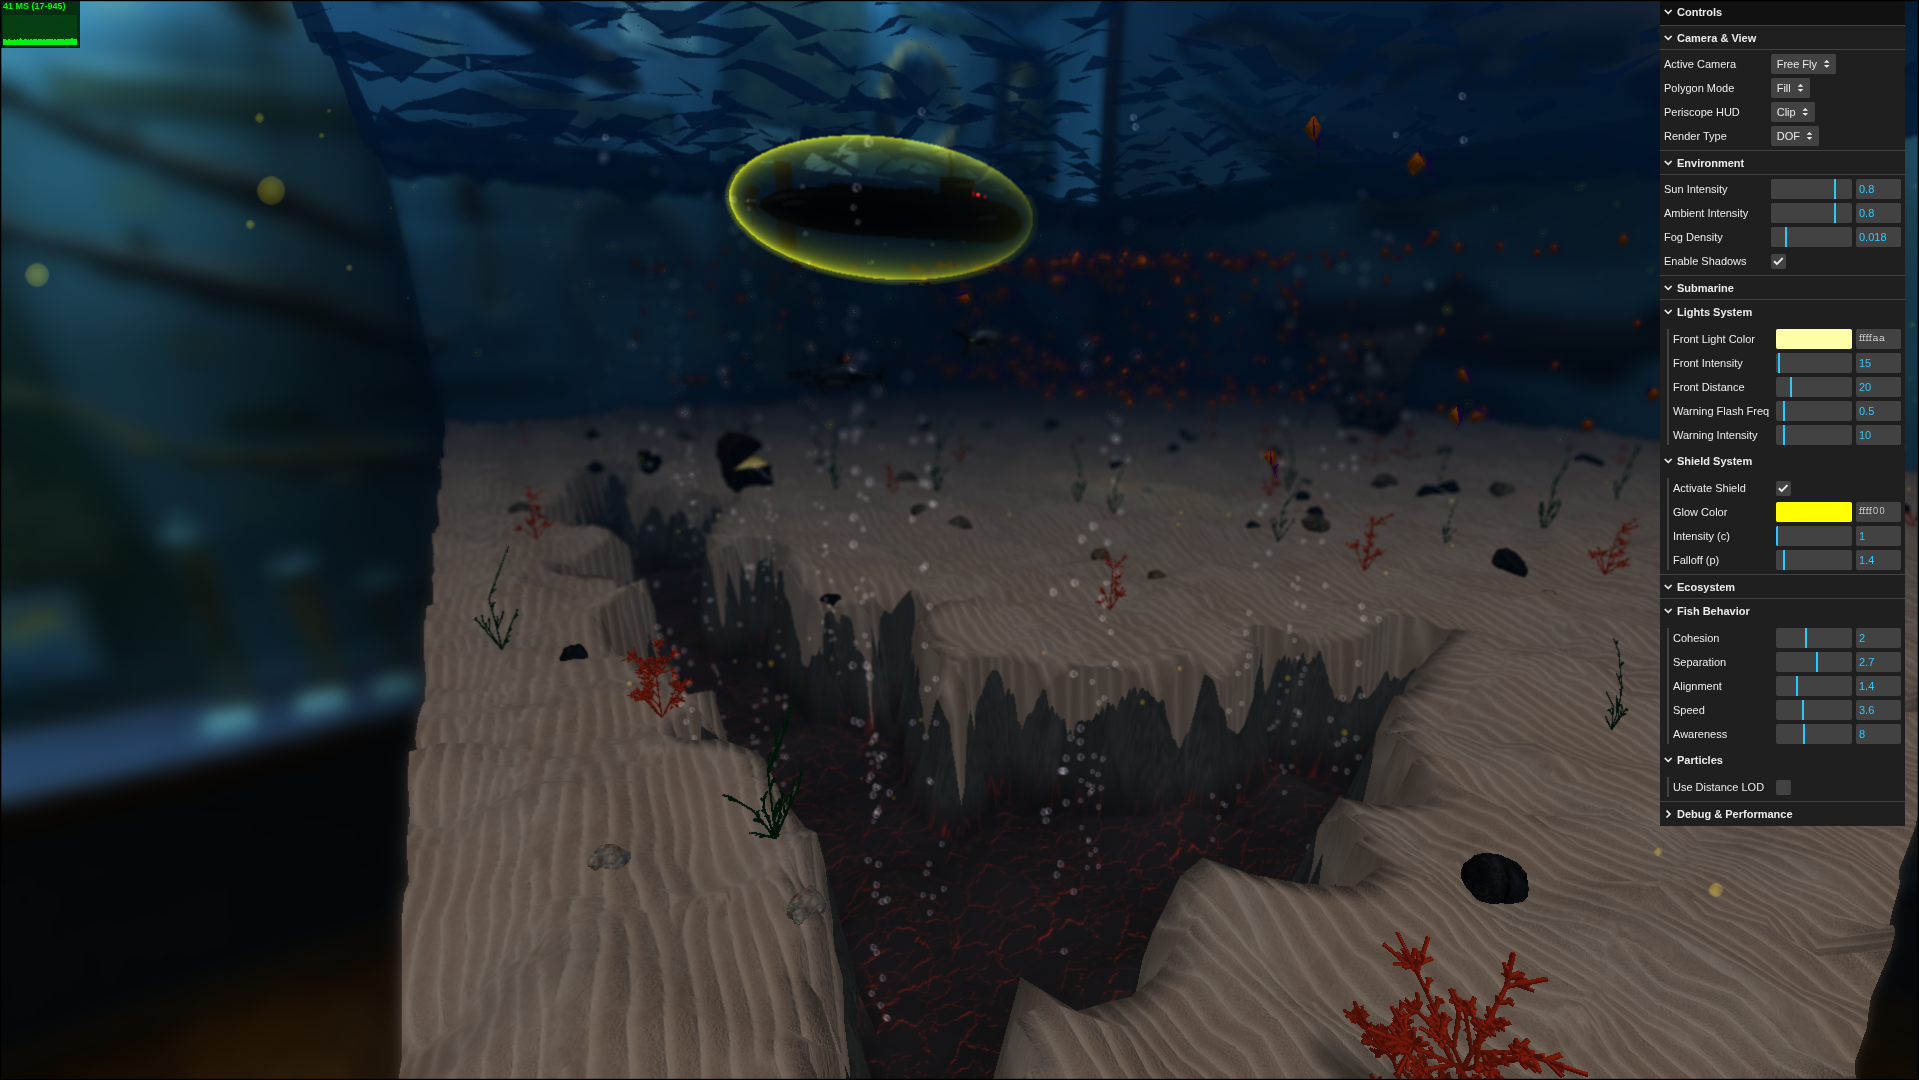
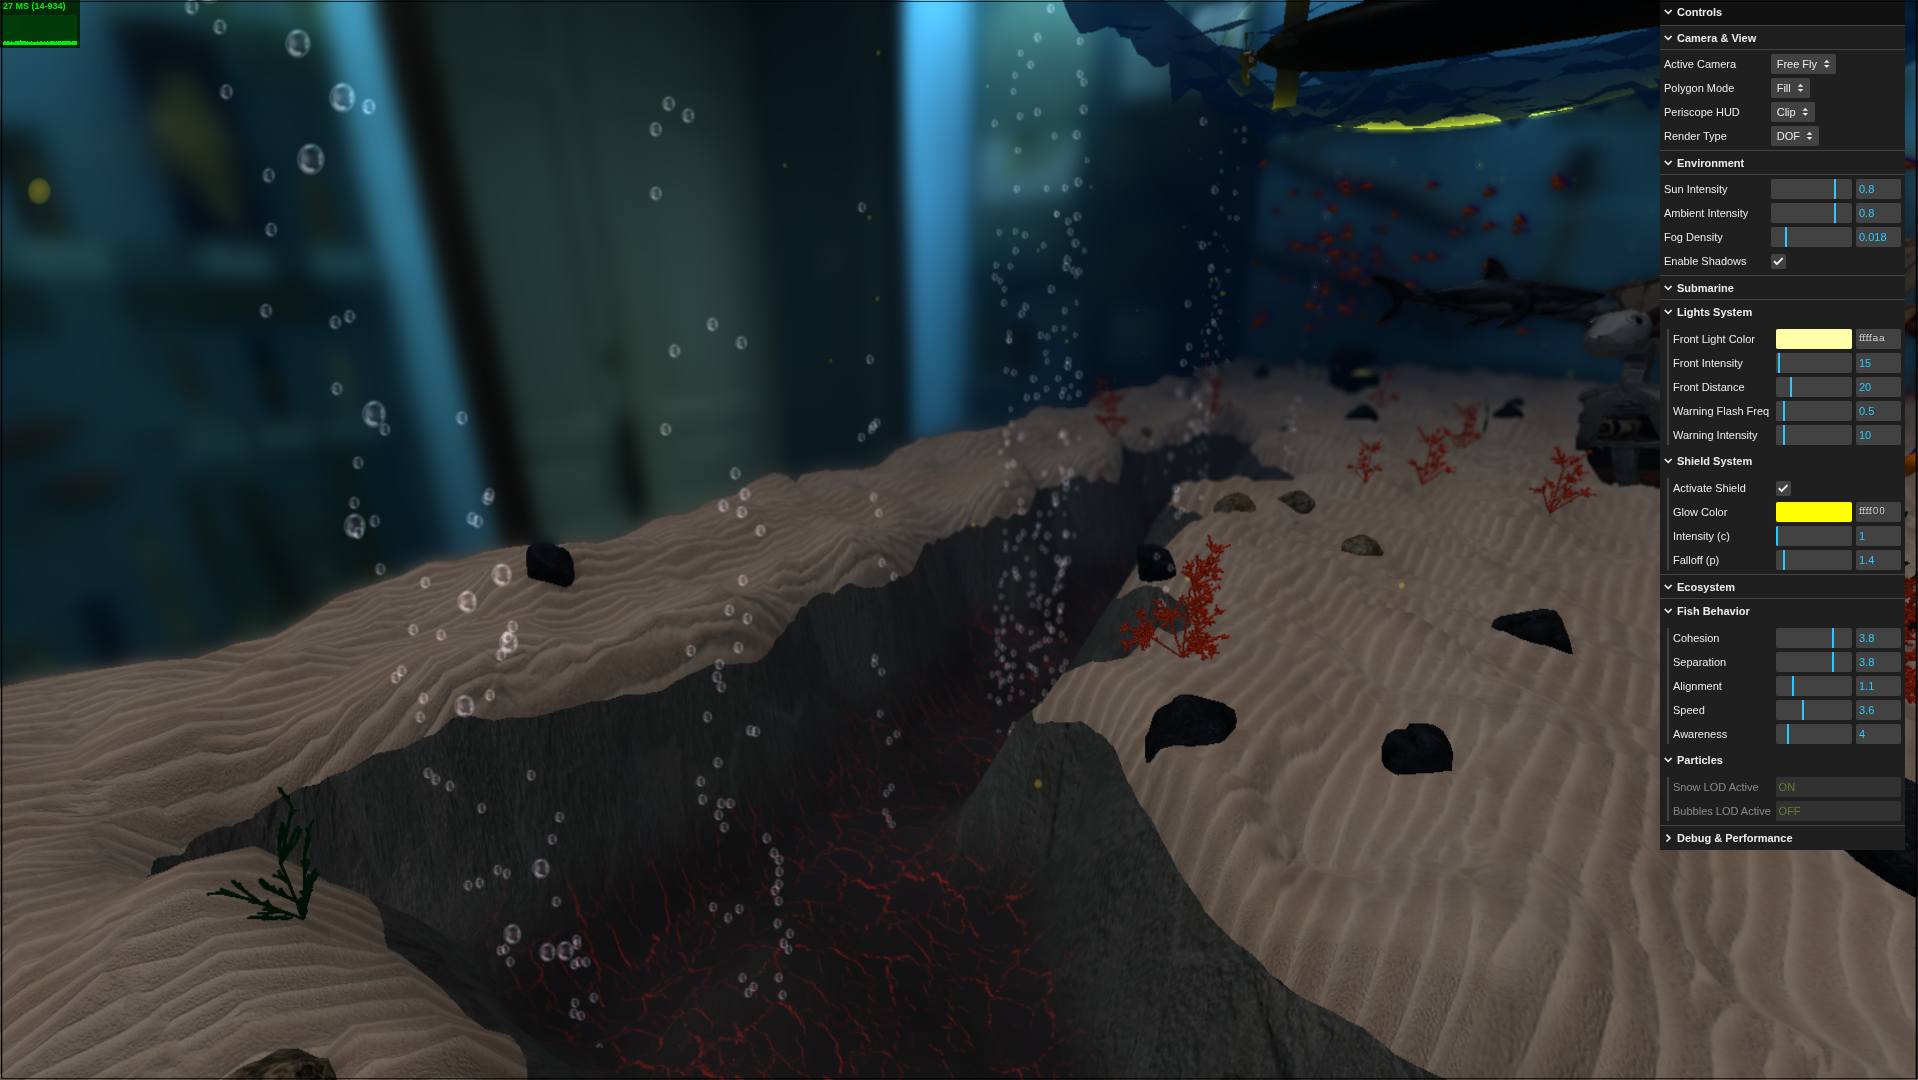
Added rift demo image

diff --git a/pw2/README.md b/pw2/README.md
@@ -315,7 +315,7 @@ We implemented a robust "Circle Packing" algorithm to distribute hundreds of ite
     
     
 #### Rift Terrain 
-![Rift Detail](screenshots/rift-demo.gif)
+![Rift Detail](screenshots/rift-demo.png)
 > *Fig 27. The procedural rift with magma floor and blended rock walls.*
 
 The rift is a major terrain feature created by stacking displacement maps.
